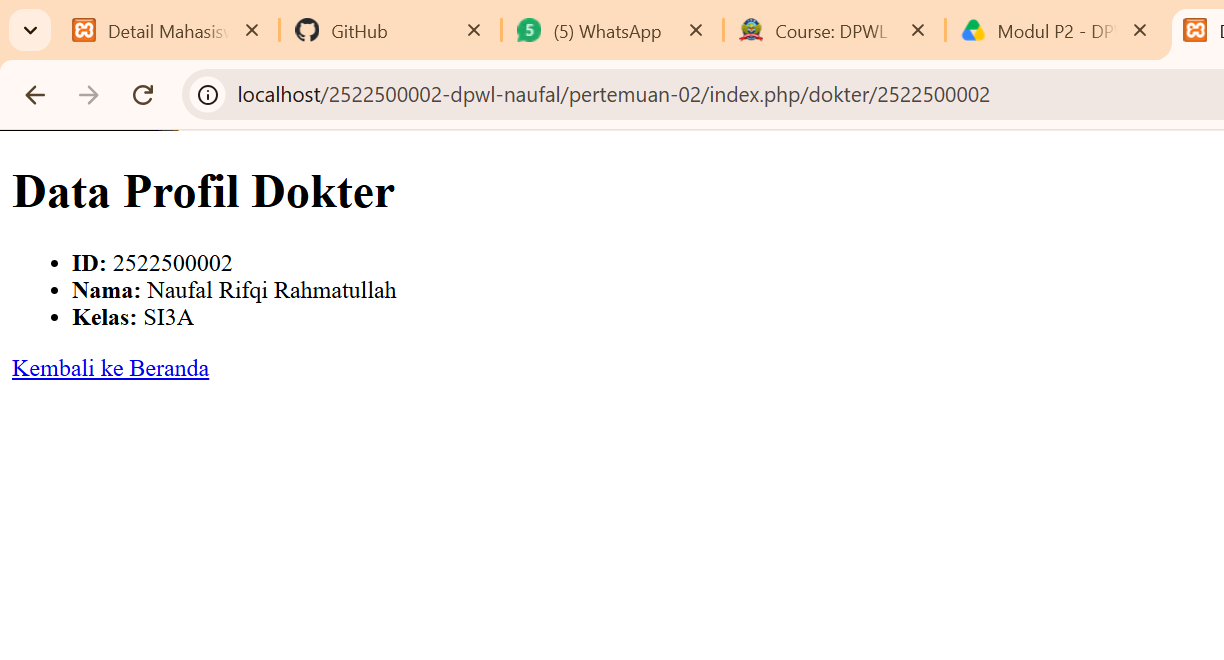
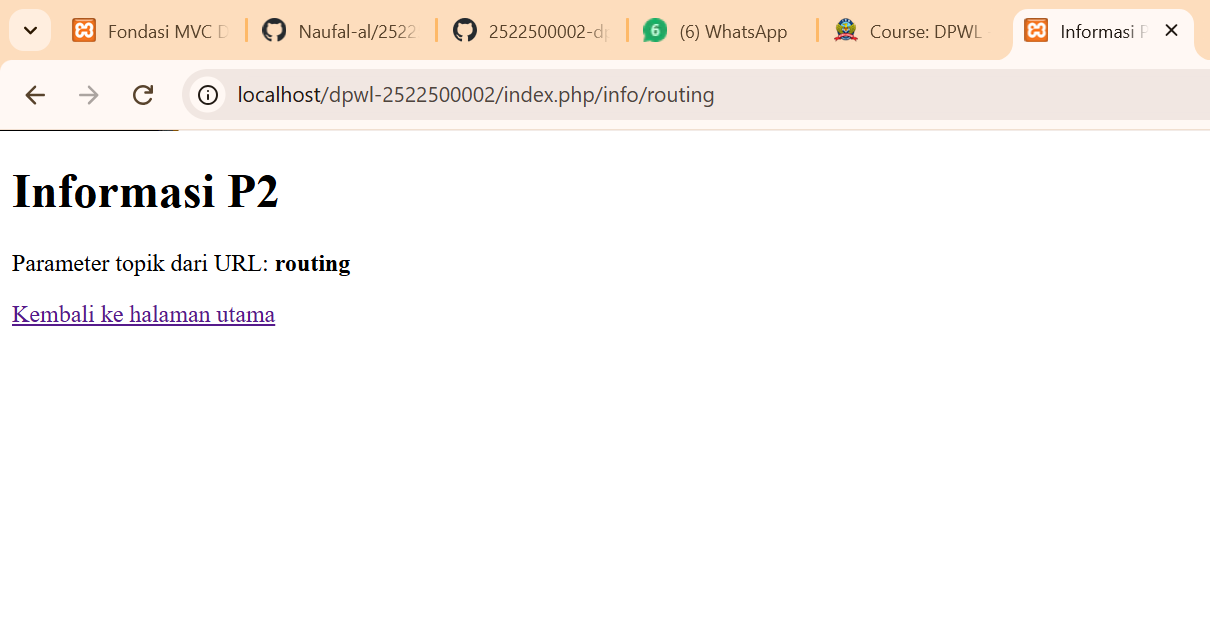
menyelesaikan

Changed region(s): [[0.0, 0.0, 1.0, 0.2114], [0.0, 0.3625, 0.3364, 0.6041], [0.0, 0.2417, 0.3364, 0.3323]]

diff --git a/pertemuan-02/application/config/config.php b/pertemuan-02/application/config/config.php
@@ -1,4 +1,4 @@
 <?php
 $config = [];
-$config['base_url'] = 'http://localhost/dpwl-2522500040/';
+$config['base_url'] = 'http://localhost/dpwl-2522500002/';
 $config['index_page'] = 'index.php';
